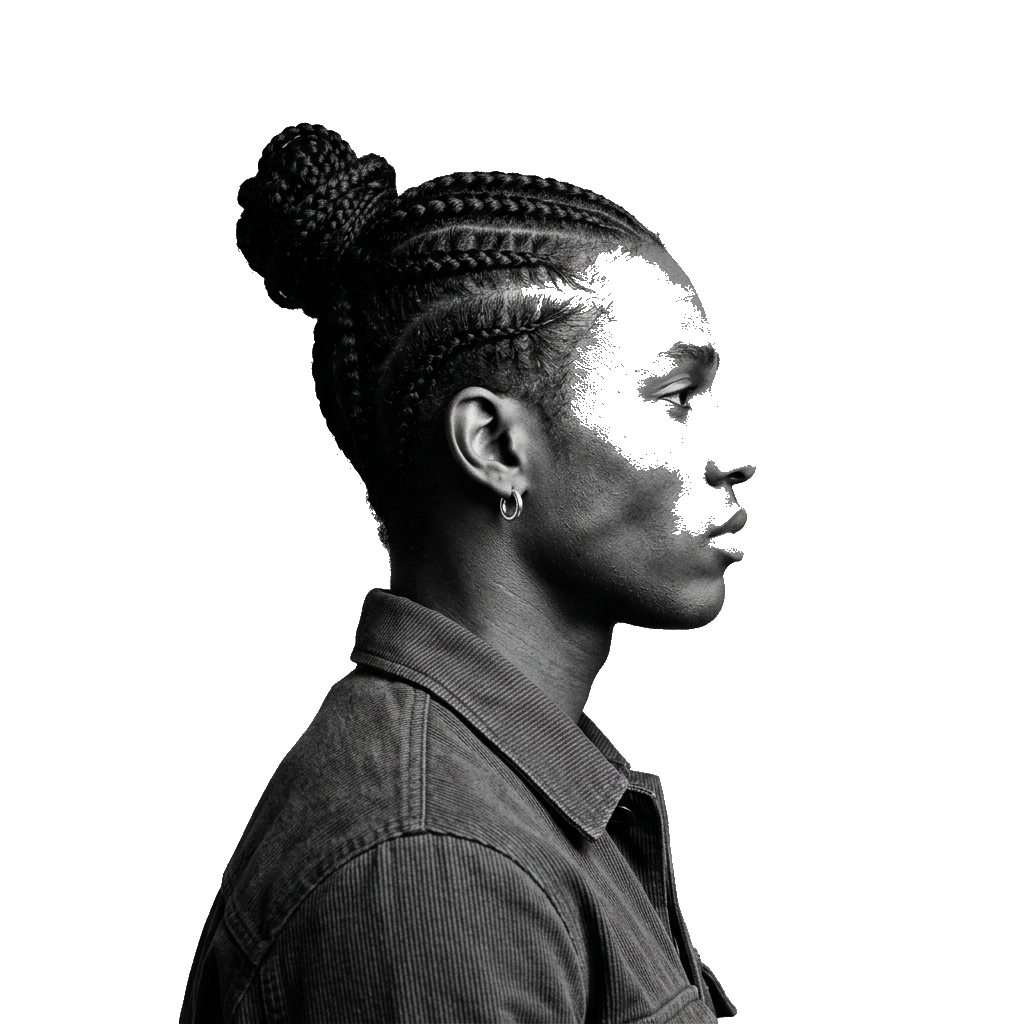
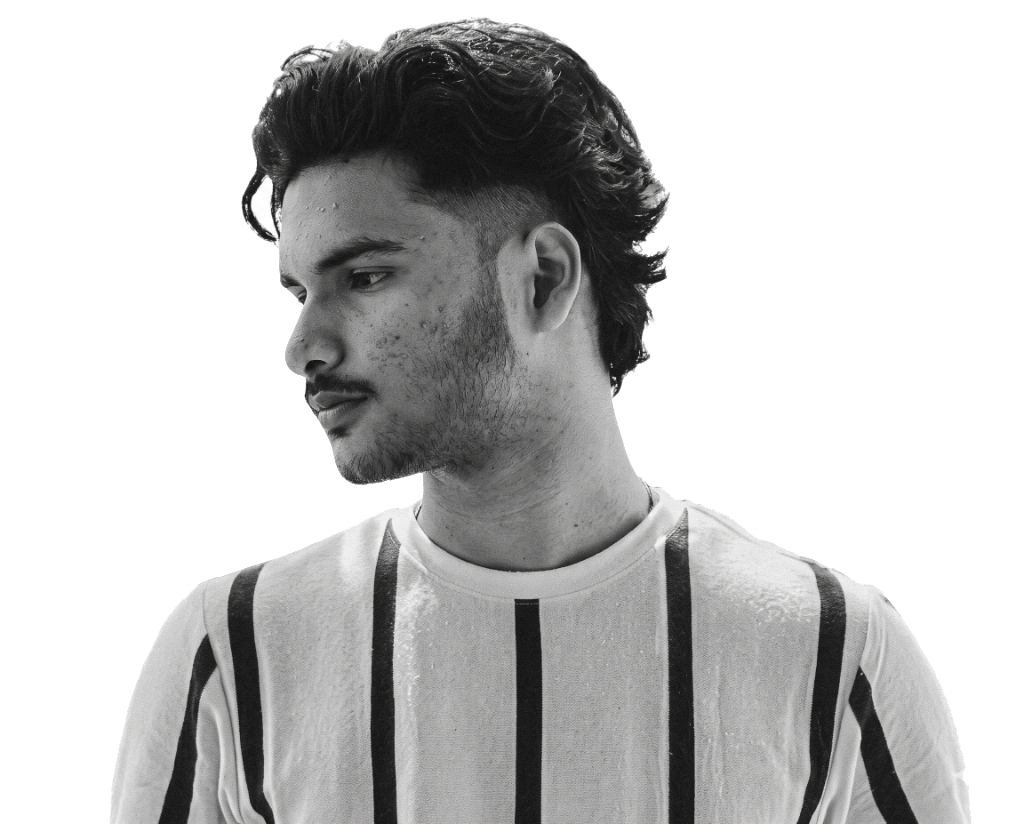
feat: integrate Yuvraj Singh editorial portrait cutout with responsive 3D card layout

diff --git a/css/style.css b/css/style.css
@@ -534,12 +534,12 @@ button {
   pointer-events: none;
 }
 
-/* Middle: Exact Editorial Portrait from Reference (z-index: 4) */
+/* Middle: Editorial Portrait of Yuvraj Singh (z-index: 4) */
 .card-portrait-stage {
   position: absolute;
   bottom: -2px;
-  left: 22%;
-  width: min(530px, 52vw);
+  left: 18%;
+  width: min(720px, 66vw);
   height: 112%;
   z-index: 4;
   transform: translateZ(48px);
@@ -554,7 +554,7 @@ button {
   width: 100%;
   object-fit: contain;
   object-position: bottom center;
-  filter: contrast(1.04) brightness(0.98);
+  filter: contrast(1.05) brightness(0.98);
 }
 
 /* Word 2: 'Singh' sits to the right, overlapping the neck with clear space from Yuvraj (z-index: 6) */
@@ -705,8 +705,8 @@ button {
     left: 48%;
   }
   .card-portrait-stage {
-    left: 10%;
-    width: 60vw;
+    left: 5%;
+    width: 80vw;
   }
 }
 

diff --git a/index.html b/index.html
@@ -100,9 +100,9 @@
             <span class="giant-word">Yuvraj</span>
           </div>
 
-          <!-- Middle: Exact Model Portrait from reference (Transparent Cutout) -->
+          <!-- Middle: Editorial Portrait of Yuvraj Singh (Transparent Cutout) -->
           <div class="card-portrait-stage" id="card-portrait-stage">
-            <img src="assets/images/alex-model.png" alt="Yuvraj Singh — Quant Researcher &amp; ML Engineer" class="card-portrait-image" id="card-portrait-image">
+            <img src="assets/images/yuvraj-portrait-cutout.png?v=3" alt="Yuvraj Singh — Quant Researcher &amp; ML Engineer" class="card-portrait-image" id="card-portrait-image">
           </div>
 
           <!-- Word 2 (In Front): 'Singh' extending right with white knockout 'S' over the neck -->
